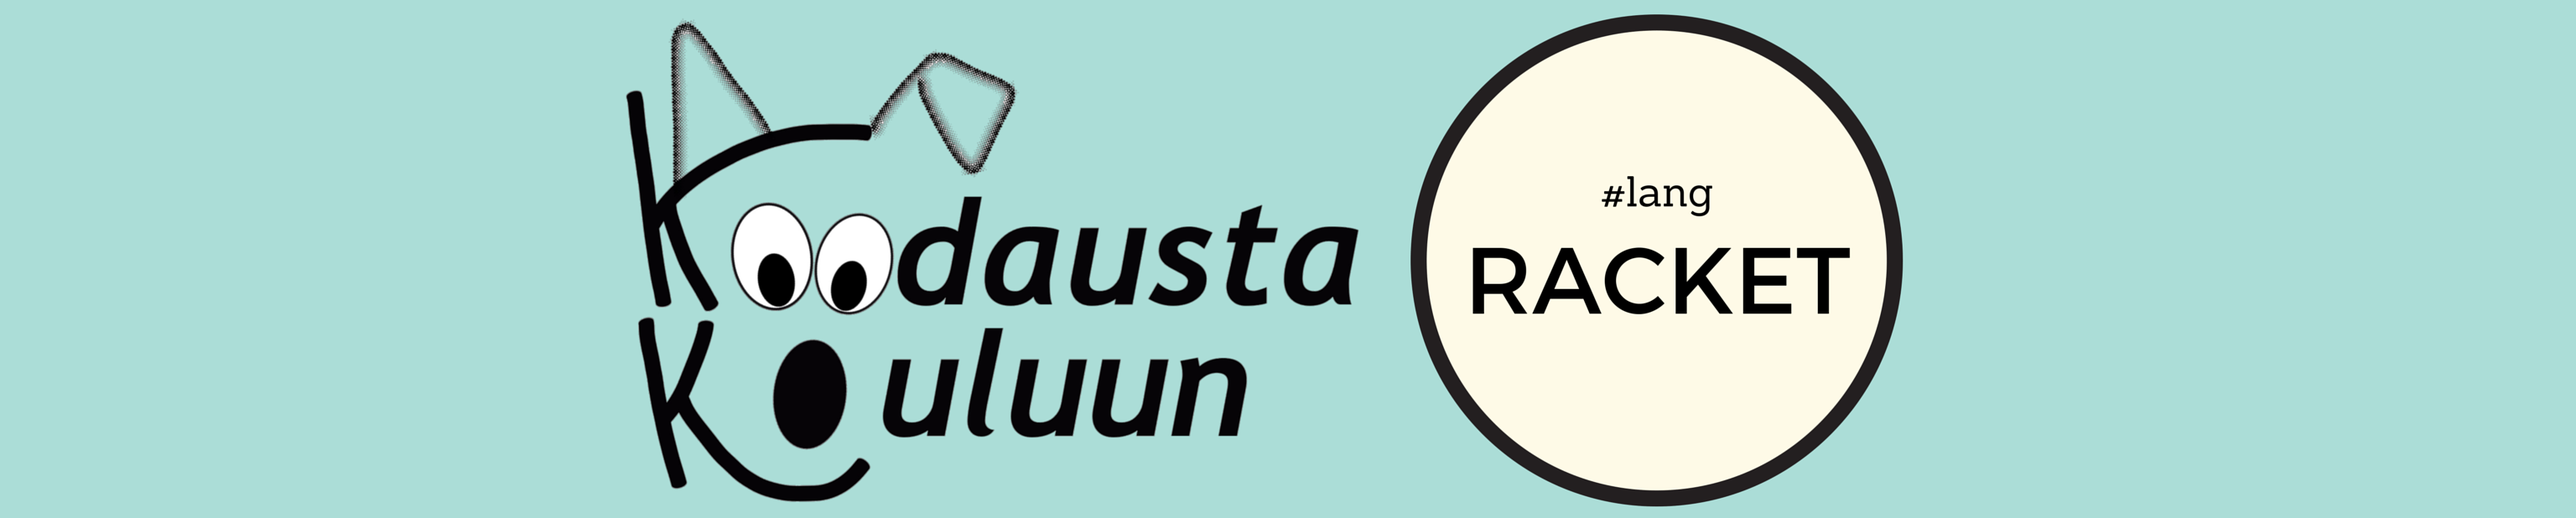
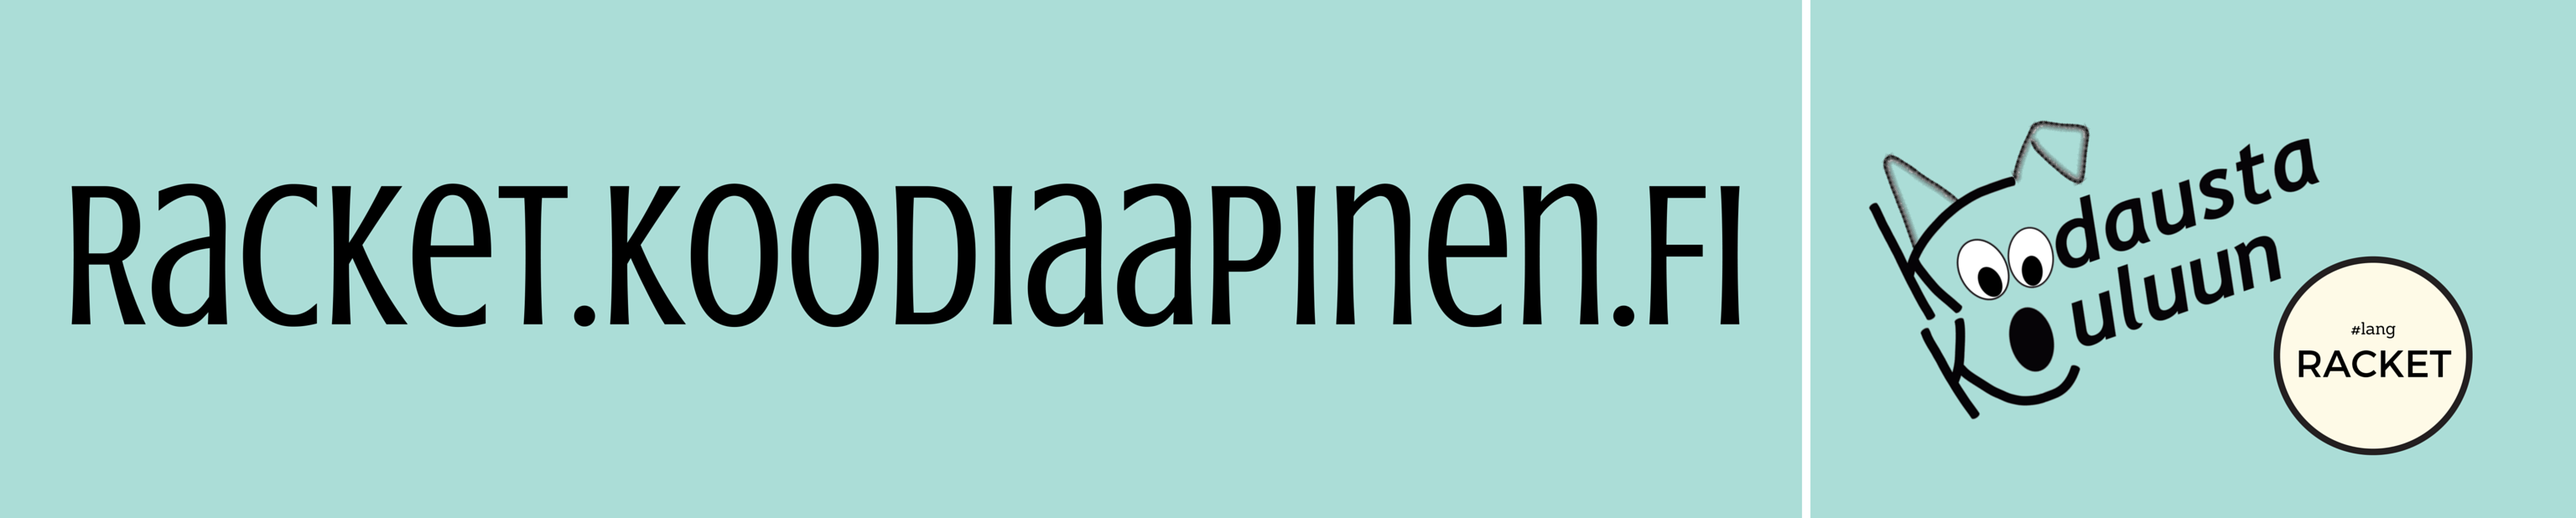
Updated header and kurssit-page.

Changed region(s): [[0.0, 0.0, 0.9688, 1.0]]

diff --git a/kurssit.html b/kurssit.html
@@ -10,7 +10,17 @@
 <body>
 	<div id="wrapper">		
 		<div id="callout">
-			<p><a href="http://download.racket-lang.org/">Lataa DrRacket</a></p>
+		<div class="row">				
+			<div class="col-xs-12 col-sm-4">	
+				<p><a href="http://koodiaapinen.fi/">Koodiaapinen.fi</a></p>
+			</div>	
+			<div class="col-xs-12 col-sm-4">	
+				<p> </p>
+			</div>		
+			<div class="col-xs-12 col-sm-4">	
+					<p><a href="http://download.racket-lang.org/">Lataa DrRacket</a></p>
+			</div>
+		</div>
 		</div>
  		<header>
 				<img class="banner_img" src="banneri.png">
@@ -28,35 +38,21 @@
 		<div class "clearfix"></div>
     		<section>
             <div class="left_col">             
-				<h2>Innokas-verkosto</h2>
-				<p> Innokas-verkoston järjestämällä <i>Kiinnostaako koodaus</i> -kiertueella tarjotaan kahden tunnin mitaisia Racket-työpajoja seuraavasti:</p>
+				<h2>Tuunaa tuntisi - messut Tampereella</h2>
+				<p>Tampereella on mahdollisuus osallistua Racket-koulutuksiin Tuunaa tuntisi - messuilla 6.2.2016.</p>
+				<p>Ilmoittautuminen Osaavan sivuilla: <a href="http://osake.eeventti.fi/tapahtuma/tuunaa-tuntisi-2016">Tuunaa tuntisi 2016</a></p>
+				<h2>Koodiaapinen MOOC</h2>
+				<p>Helmikuussa 2016 alkaa ilmainen opettajille suunnattu Koodiaapinen MOOC, jossa on tarjolla myös Racket-ohjelmointi.</p>
+				<p>Ilmoittautuminen Koodiaapinen.fi - sivujen kautta: <a href="https://koodiaapinen.fi">Koodiaapinen.fi</a></p>
+				<p>Tampereella on myös mahdollisuus tulla tekemään MOOC - kurssin tehtäviä työpajoihin, joissa on paikalla Racket - taitoisia tutorpettajia.</p>
 				<div class="list_items">
 				<ul>
-				<li>23.9. Espoo</li><br>
-				<li>1.10. Helsinki</li><br>
-				<li>8.10. Tampere</li><br>
-				<li>13.10. Oulu</li><br>
-				<li>21.10. Turku</li><br>
-				<li>27.10. Kokkola</li><br>
-				<li>29.10. Rovaniemi</li><br>
-				<li>4.11. Jyväskylä</li><br>
-				<li>10.11. Lappeenranta</li><br>
-				<li>16.11. Joensuu</li><br>
-				<li>18.11. Kuopio</li><br></ul></div>
-				<p>Ilmoittautuminen näihin pajoihin tapahtuu <a href="http://www.innokas.fi/fi/events/">Innokkaan sivujen</a> kautta.</p>
-				
-				<h2> Koodiaapinen MOOC</h2>
-				<p>Lokakuussa 2015 alkaa ilmainen opettajille suunnattu Koodiaapinen MOOC, jossa on tarjolla myös Racket-ohjelmointi.</p>
-				<p>Ilmoittaudu kurssille <a href="https://eliademy.com">Eliademyssä.</a></p>
-				<h2>Osaava-Tampere</h2>
-				<p>Tampereella on mahdollisuus osallistua Osaavan Racket-koulutuksiin matemaattisten aineiden opettajille:</p>
-				<div class="list_items">
-				<ul>
-				<li>3.9.2015, klo 12.30-15.30 Tampere, Voimakatu 13</li><br>
-				<li>14.9.2015, klo 12.30-15.30 Tampere, Voimakatu 13</li><br>
-				<li>2.10.2015, klo 12.30-15.30 Tampere, Voimakatu 13</li><br>
+				<p>Alustavat Racket - pajapäivät Tampereella:</p>
+				<li>9.3.2016</li><br>
+				<li>22.3.2016</li><br>
+				<li>5.4.2016</li><br>
 				</ul></div>
-				<p>Ilmoittautuminen <a href="http://osake.eeventti.fi/koulutus/syksy">Osaavan sivujen</a> kautta.</p>
+				<p>Ilmoittautumisohjeet Racket - pajoihin tulevat tänne myöhemmin.</p>
 			</div>
             </section>
             <aside class="right_col">
@@ -88,6 +84,6 @@
     			</div>
 				</div>
     		</footer>
-<center><a rel="license" href="http://creativecommons.org/licenses/by-sa/3.0/"><img alt="Creative Commons -lisenssi" style="border-width:0" src="https://i.creativecommons.org/l/by-sa/3.0/88x31.png" /></a></br>Tämä teos on lisensoitu <a rel="license" href="http://creativecommons.org/licenses/by-sa/3.0/">Creative Commons Nimeä-JaaSamoin 3.0 Ei sovitettu -lisenssillä</a>.</center>
+<center><a rel="license" href="http://creativecommons.org/licenses/by-sa/4.0/"><img alt="Creative Commons -lisenssi" style="border-width:0" src="https://i.creativecommons.org/l/by-sa/4.0/88x31.png" /></a><br />Tämä teos on lisensoitu <a rel="license" href="http://creativecommons.org/licenses/by-sa/4.0/">Creative Commons Nimeä-JaaSamoin 4.0 Kansainvälinen -lisenssillä</a>.
 </body>
 </html>

diff --git a/index.html b/index.html
@@ -10,7 +10,17 @@
 <body>
 	<div id="wrapper">		
 		<div id="callout">
-			<p><a href="http://download.racket-lang.org/">Lataa DrRacket</a></p>
+		<div class="row">				
+			<div class="col-xs-12 col-sm-4">	
+				<p><a href="http://koodiaapinen.fi/">Koodiaapinen.fi</a></p>
+			</div>	
+			<div class="col-xs-12 col-sm-4">	
+				<p> </p>
+			</div>		
+			<div class="col-xs-12 col-sm-4">	
+					<p><a href="http://download.racket-lang.org/">Lataa DrRacket</a></p>
+			</div>
+		</div>
 		</div>
         <header>
                 <img class="banner_img" src="banneri.png">
@@ -68,7 +78,7 @@
     			</div>
 			</div>
     		</footer>
-<center><a rel="license" href="http://creativecommons.org/licenses/by-sa/3.0/"><img alt="Creative Commons -lisenssi" style="border-width:0" src="https://i.creativecommons.org/l/by-sa/3.0/88x31.png" /></a></br>Tämä teos on lisensoitu <a rel="license" href="http://creativecommons.org/licenses/by-sa/3.0/">Creative Commons Nimeä-JaaSamoin 3.0 Ei sovitettu -lisenssillä</a>.</center>
+<center><a rel="license" href="http://creativecommons.org/licenses/by-sa/4.0/"><img alt="Creative Commons -lisenssi" style="border-width:0" src="https://i.creativecommons.org/l/by-sa/4.0/88x31.png" /></a><br />Tämä teos on lisensoitu <a rel="license" href="http://creativecommons.org/licenses/by-sa/4.0/">Creative Commons Nimeä-JaaSamoin 4.0 Kansainvälinen -lisenssillä</a>.
 <script src="./js/jquery-1.11.3.min.js" > </script>
 <script src="./js/bootstrap.js" > </script>
 </body>

diff --git a/tyokalut.html b/tyokalut.html
@@ -10,7 +10,17 @@
 <body>
 	<div id="wrapper">		
 		<div id="callout">
-			<p><a href="http://download.racket-lang.org/">Lataa DrRacket</a></p>
+		<div class="row">				
+			<div class="col-xs-12 col-sm-4">	
+				<p><a href="http://koodiaapinen.fi/">Koodiaapinen.fi</a></p>
+			</div>	
+			<div class="col-xs-12 col-sm-4">	
+				<p> </p>
+			</div>		
+			<div class="col-xs-12 col-sm-4">	
+					<p><a href="http://download.racket-lang.org/">Lataa DrRacket</a></p>
+			</div>
+		</div>
 		</div>
         <header>
                 <img class="banner_img" src="banneri.png">
@@ -86,6 +96,6 @@
     			</div>
 				</div>
     		</footer>
-<center><a rel="license" href="http://creativecommons.org/licenses/by-sa/3.0/"><img alt="Creative Commons -lisenssi" style="border-width:0" src="https://i.creativecommons.org/l/by-sa/3.0/88x31.png" /></a></br>Tämä teos on lisensoitu <a rel="license" href="http://creativecommons.org/licenses/by-sa/3.0/">Creative Commons Nimeä-JaaSamoin 3.0 Ei sovitettu -lisenssillä</a>.</center>
+<center><a rel="license" href="http://creativecommons.org/licenses/by-sa/4.0/"><img alt="Creative Commons -lisenssi" style="border-width:0" src="https://i.creativecommons.org/l/by-sa/4.0/88x31.png" /></a><br />Tämä teos on lisensoitu <a rel="license" href="http://creativecommons.org/licenses/by-sa/4.0/">Creative Commons Nimeä-JaaSamoin 4.0 Kansainvälinen -lisenssillä</a>.
 </body>
 </html>

diff --git a/esittely.html b/esittely.html
@@ -10,7 +10,17 @@
 <body>
 	<div id="wrapper">		
 		<div id="callout">
-			<p><a href="http://download.racket-lang.org/">Lataa DrRacket</a></p>
+		<div class="row">				
+			<div class="col-xs-12 col-sm-4">	
+				<p><a href="http://koodiaapinen.fi/">Koodiaapinen.fi</a></p>
+			</div>	
+			<div class="col-xs-12 col-sm-4">	
+				<p> </p>
+			</div>		
+			<div class="col-xs-12 col-sm-4">	
+					<p><a href="http://download.racket-lang.org/">Lataa DrRacket</a></p>
+			</div>
+		</div>
 		</div>
  		<header>
 				<img class="banner_img" src="banneri.png">
@@ -63,6 +73,6 @@
     			</div>
 				</div>
     		</footer>
-<center><a rel="license" href="http://creativecommons.org/licenses/by-sa/3.0/"><img alt="Creative Commons -lisenssi" style="border-width:0" src="https://i.creativecommons.org/l/by-sa/3.0/88x31.png" /></a></br>Tämä teos on lisensoitu <a rel="license" href="http://creativecommons.org/licenses/by-sa/3.0/">Creative Commons Nimeä-JaaSamoin 3.0 Ei sovitettu -lisenssillä</a>.</center>
+<center><a rel="license" href="http://creativecommons.org/licenses/by-sa/4.0/"><img alt="Creative Commons -lisenssi" style="border-width:0" src="https://i.creativecommons.org/l/by-sa/4.0/88x31.png" /></a><br />Tämä teos on lisensoitu <a rel="license" href="http://creativecommons.org/licenses/by-sa/4.0/">Creative Commons Nimeä-JaaSamoin 4.0 Kansainvälinen -lisenssillä</a>.
 </body>
 </html>

diff --git a/osallistu.html b/osallistu.html
@@ -10,7 +10,17 @@
 <body>
 	<div id="wrapper">		
 		<div id="callout">
-			<p><a href="http://download.racket-lang.org/">Lataa DrRacket</a></p>
+		<div class="row">				
+			<div class="col-xs-12 col-sm-4">	
+				<p><a href="http://koodiaapinen.fi/">Koodiaapinen.fi</a></p>
+			</div>	
+			<div class="col-xs-12 col-sm-4">	
+				<p> </p>
+			</div>		
+			<div class="col-xs-12 col-sm-4">	
+					<p><a href="http://download.racket-lang.org/">Lataa DrRacket</a></p>
+			</div>
+		</div>
 		</div>
  		<header>
 				<img class="banner_img" src="banneri.png">
@@ -66,6 +76,6 @@
     			</div>
 				</div>
     		</footer>
-<center><a rel="license" href="http://creativecommons.org/licenses/by-sa/3.0/"><img alt="Creative Commons -lisenssi" style="border-width:0" src="https://i.creativecommons.org/l/by-sa/3.0/88x31.png" /></a></br>Tämä teos on lisensoitu <a rel="license" href="http://creativecommons.org/licenses/by-sa/3.0/">Creative Commons Nimeä-JaaSamoin 3.0 Ei sovitettu -lisenssillä</a>.</center>
+<center><a rel="license" href="http://creativecommons.org/licenses/by-sa/4.0/"><img alt="Creative Commons -lisenssi" style="border-width:0" src="https://i.creativecommons.org/l/by-sa/4.0/88x31.png" /></a><br />Tämä teos on lisensoitu <a rel="license" href="http://creativecommons.org/licenses/by-sa/4.0/">Creative Commons Nimeä-JaaSamoin 4.0 Kansainvälinen -lisenssillä</a>.
 </body>
 </html>

diff --git a/racket.html b/racket.html
@@ -10,7 +10,17 @@
 <body>
 	<div id="wrapper">		
 		<div id="callout">
-			<p><a href="http://download.racket-lang.org/">Lataa DrRacket</a></p>
+		<div class="row">				
+			<div class="col-xs-12 col-sm-4">	
+				<p><a href="http://koodiaapinen.fi/">Koodiaapinen.fi</a></p>
+			</div>	
+			<div class="col-xs-12 col-sm-4">	
+				<p> </p>
+			</div>		
+			<div class="col-xs-12 col-sm-4">	
+					<p><a href="http://download.racket-lang.org/">Lataa DrRacket</a></p>
+			</div>
+		</div>
 		</div>
  		<header>
 			<img class="banner_img" src="banneri.png">
@@ -65,6 +75,6 @@
     			</div>
 				</div>
     		</footer>
-<center><a rel="license" href="http://creativecommons.org/licenses/by-sa/3.0/"><img alt="Creative Commons -lisenssi" style="border-width:0" src="https://i.creativecommons.org/l/by-sa/3.0/88x31.png" /></a></br>Tämä teos on lisensoitu <a rel="license" href="http://creativecommons.org/licenses/by-sa/3.0/">Creative Commons Nimeä-JaaSamoin 3.0 Ei sovitettu -lisenssillä</a>.</center>
+<center><a rel="license" href="http://creativecommons.org/licenses/by-sa/4.0/"><img alt="Creative Commons -lisenssi" style="border-width:0" src="https://i.creativecommons.org/l/by-sa/4.0/88x31.png" /></a><br />Tämä teos on lisensoitu <a rel="license" href="http://creativecommons.org/licenses/by-sa/4.0/">Creative Commons Nimeä-JaaSamoin 4.0 Kansainvälinen -lisenssillä</a>.
 </body>
 </html>

diff --git a/koko_esittely.css b/koko_esittely.css
@@ -62,17 +62,18 @@
 		overflow: hidden;
 	}
 	#callout p{
-		text-align: right;
+		text-align: center;
 		color: #F1F0D1; /*#878E63; /*#FEFBE8;*/
+		font-weight: bold;
 		font-size: 13px;
-		padding: 0.1% 5% 0 0;
+		padding: 0.5% 5% 0 0;
 	}
 	#callout p a{
 		color:  #F1F0D1; 
 		text-decoration: none;
 	}
 	header {
-		width: 96%;
+		width: 97%;
 		min-height: : 125px;
 		padding-left: 2%;
 		padding-top: 10px;
